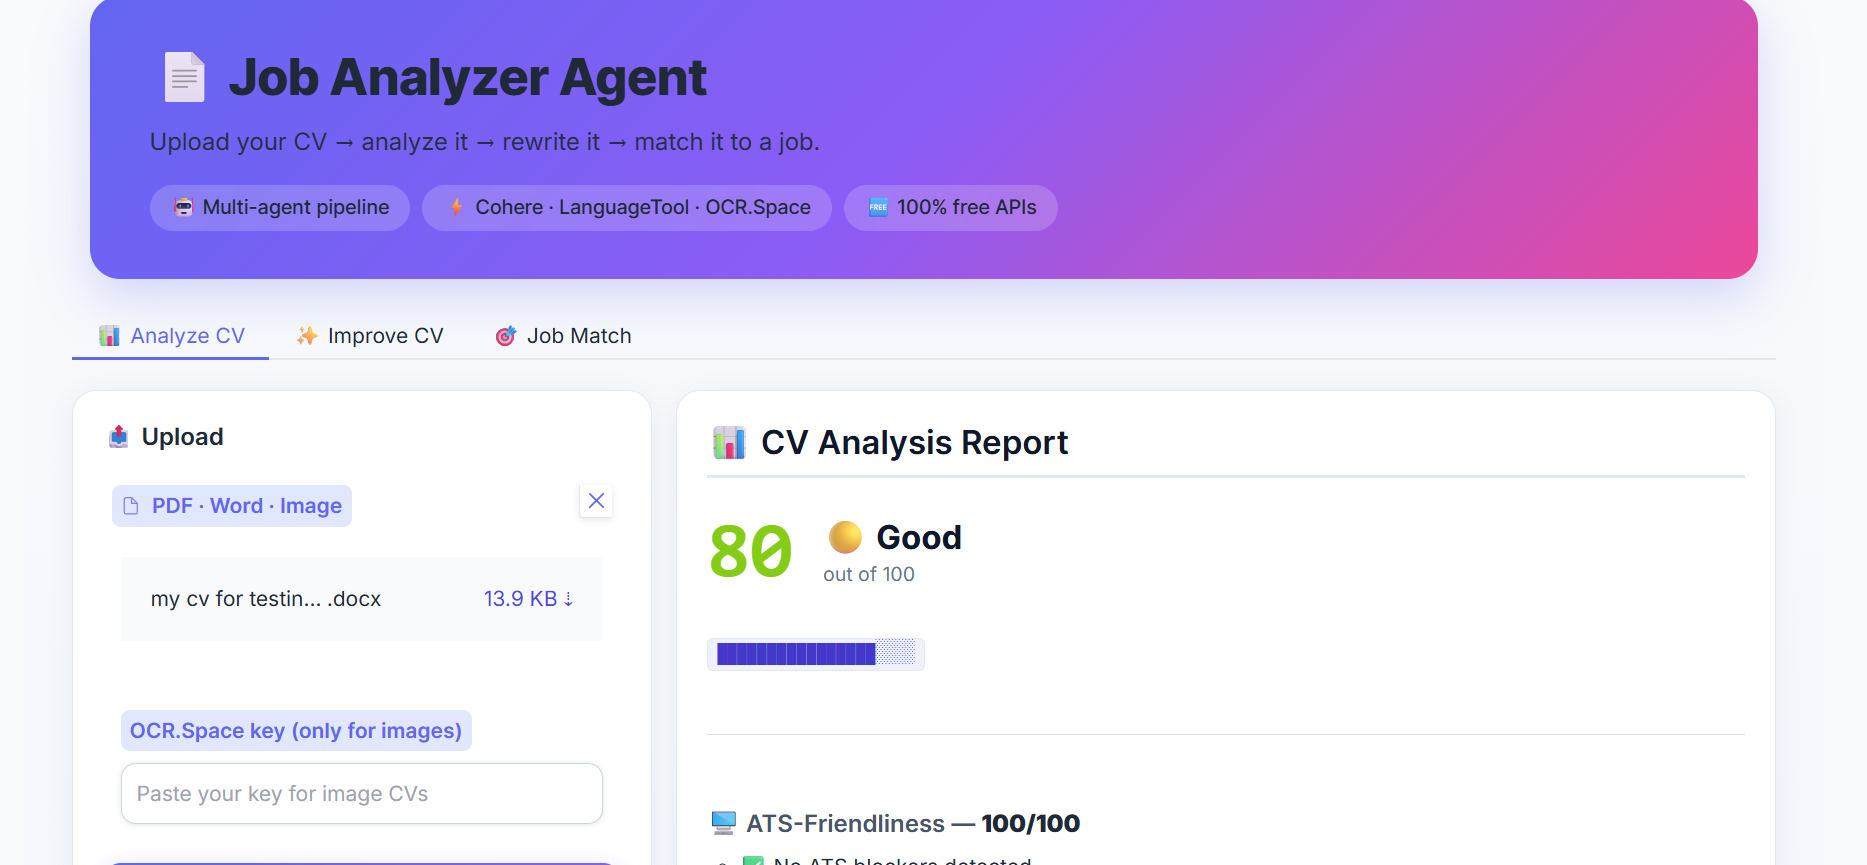
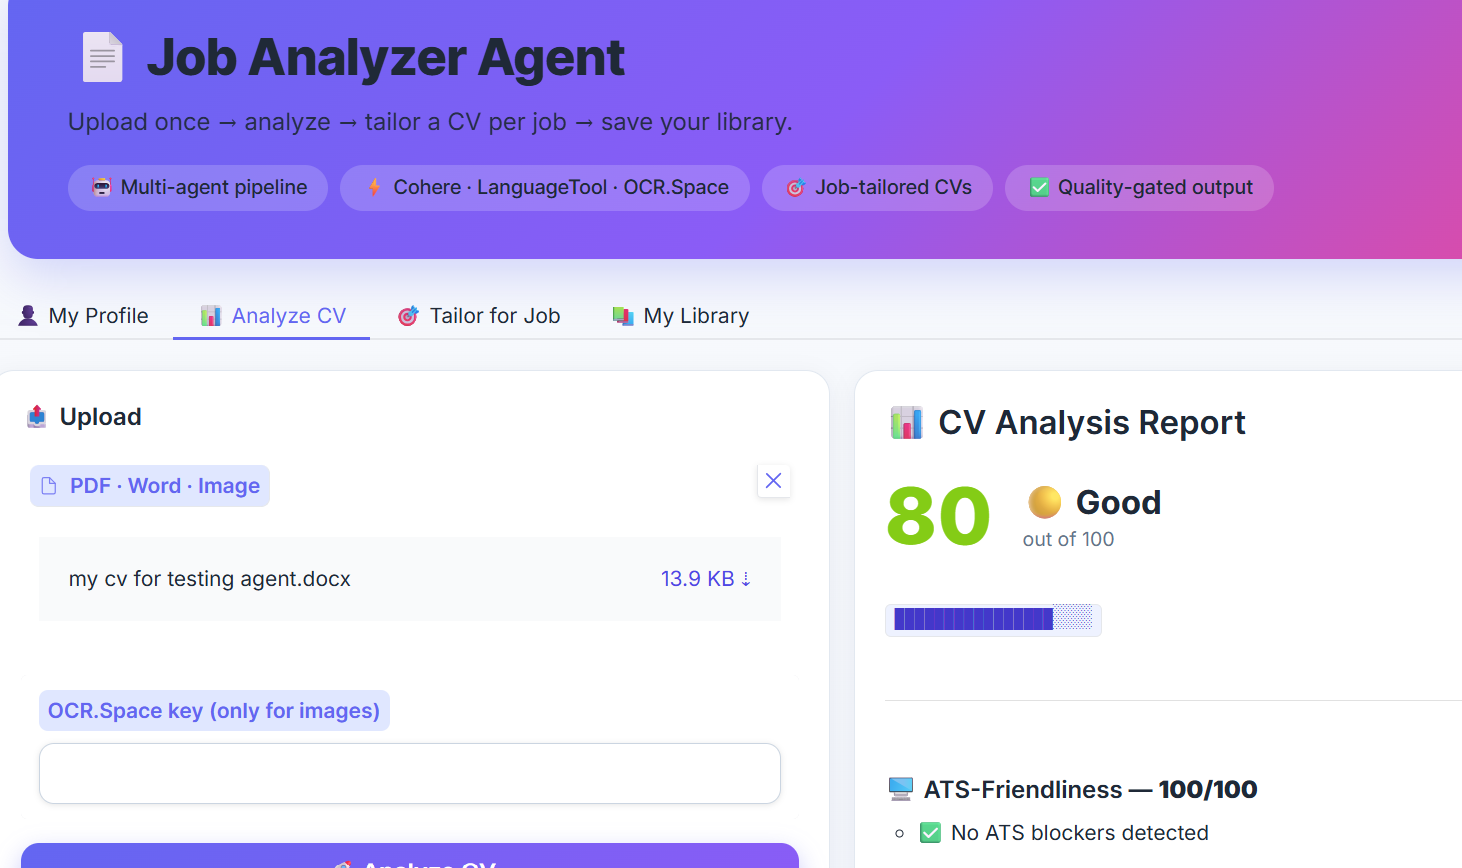
docs: v2.0 README with architecture diagram, screenshots, and roadmap

diff --git a/README.md b/README.md
@@ -2,16 +2,16 @@
 
 # 📄 Job Analyzer Agent
 
-**Upload a CV → analyze it → rewrite it → match it to a job.**
+**Upload once → analyze → tailor a CV per job → save your library.**
 
-A multi-agent system that scores CVs, checks ATS-friendliness, gives recruiter-level critique, rewrites the CV, and matches it against a job description.
+A multi-agent AI system that parses your master CV, analyzes any job description, generates a tailored CV per job, and validates every output with a quality gate.
 
 [![Python](https://img.shields.io/badge/Python-3.10%2B-3776AB?logo=python&logoColor=white)](https://www.python.org/)
 [![Gradio](https://img.shields.io/badge/Gradio-6.x-FF7C00?logo=gradio&logoColor=white)](https://gradio.app/)
 [![Cohere](https://img.shields.io/badge/Cohere-API-39594D?logo=cohere&logoColor=white)](https://cohere.com/)
 [![License: MIT](https://img.shields.io/badge/License-MIT-yellow.svg)](LICENSE)
 
-[Features](#-features) · [Demo](#-demo) · [Quick Start](#-quick-start) · [Architecture](#-architecture) · [Roadmap](#-roadmap)
+[Features](#-features) · [Demo](#-demo) · [Quick Start](#-quick-start) · [How It Works](#-how-it-works) · [Roadmap](#-roadmap)
 
 </div>
 
@@ -19,11 +19,18 @@ A multi-agent system that scores CVs, checks ATS-friendliness, gives recruiter-l
 
 ## ✨ Features
 
-- **📊 CV Analysis** — Grammar & spelling, missing sections, ATS-friendliness, weighted overall score
-- **🤖 AI Feedback** — Prioritized, actionable suggestions (not generic advice)
-- **🧐 Recruiter Critique** — Impact, tone, and storytelling — what a hiring manager actually notices
-- **✨ CV Rewriting** — LLM rewrites the CV, fixing every identified issue and adding missing sections
-- **🎯 Job Matching** — Paste a job description, see the match %, missing keywords, and tailoring advice
+### 🆕 v2.0 — Multi-CV Tailoring
+
+- **👤 My Profile** — Upload your CV once. It's parsed into structured JSON and saved as your master profile.
+- **🎯 Tailor for Job** — Paste any job description. A 3-stage agent pipeline generates a CV tailored to that specific role.
+- **📚 My Library** — Browse every tailored CV you've generated, load any of them, or delete old ones.
+- **✅ Quality Gate** — Every generated CV is validated for hallucinations, length, sections, and clichés. If it fails, the system retries with feedback — up to 3 times.
+
+### v1.0 — Foundation
+
+- **📊 Analyze CV** — Grammar & spelling, missing sections, ATS-friendliness, weighted quality score
+- **🤖 AI Feedback** — Prioritized, actionable suggestions
+- **🧐 Recruiter Critique** — Impact, tone, storytelling — what a hiring manager notices
 - **📂 Multi-format** — Reads PDF, Word (`.docx`), and images (via OCR)
 
 ---
@@ -33,12 +40,22 @@ A multi-agent system that scores CVs, checks ATS-friendliness, gives recruiter-l
 <table>
   <tr>
     <td width="50%">
-      <img src="assets/screenshot-analyze.png" alt="CV Analysis tab" width="100%"/>
-      <p align="center"><em>📊 Analyze — score, ATS check, grammar, AI suggestions</em></p>
+      <img src="assets/screenshot-profile.png" alt="My Profile — parsed master CV" width="100%"/>
+      <p align="center"><em>👤 My Profile — CV parsed into structured JSON</em></p>
     </td>
     <td width="50%">
-      <img src="assets/screenshot-job-match.png" alt="Job Match tab" width="100%"/>
-      <p align="center"><em>🎯 Job Match — keyword match + tailoring advice</em></p>
+      <img src="assets/screenshot-analyze.png" alt="Analyze CV — score, ATS, grammar" width="100%"/>
+      <p align="center"><em>📊 Analyze — score, ATS check, grammar</em></p>
+    </td>
+  </tr>
+  <tr>
+    <td width="50%">
+      <img src="assets/screenshot-tailor.png" alt="Tailor for Job — tailored CV output" width="100%"/>
+      <p align="center"><em>🎯 Tailor for Job — job-specific CV + quality score</em></p>
+    </td>
+    <td width="50%">
+      <img src="assets/screenshot-library.png" alt="My Library — saved versions" width="100%"/>
+      <p align="center"><em>📚 My Library — every tailored version you've saved</em></p>
     </td>
   </tr>
 </table>
